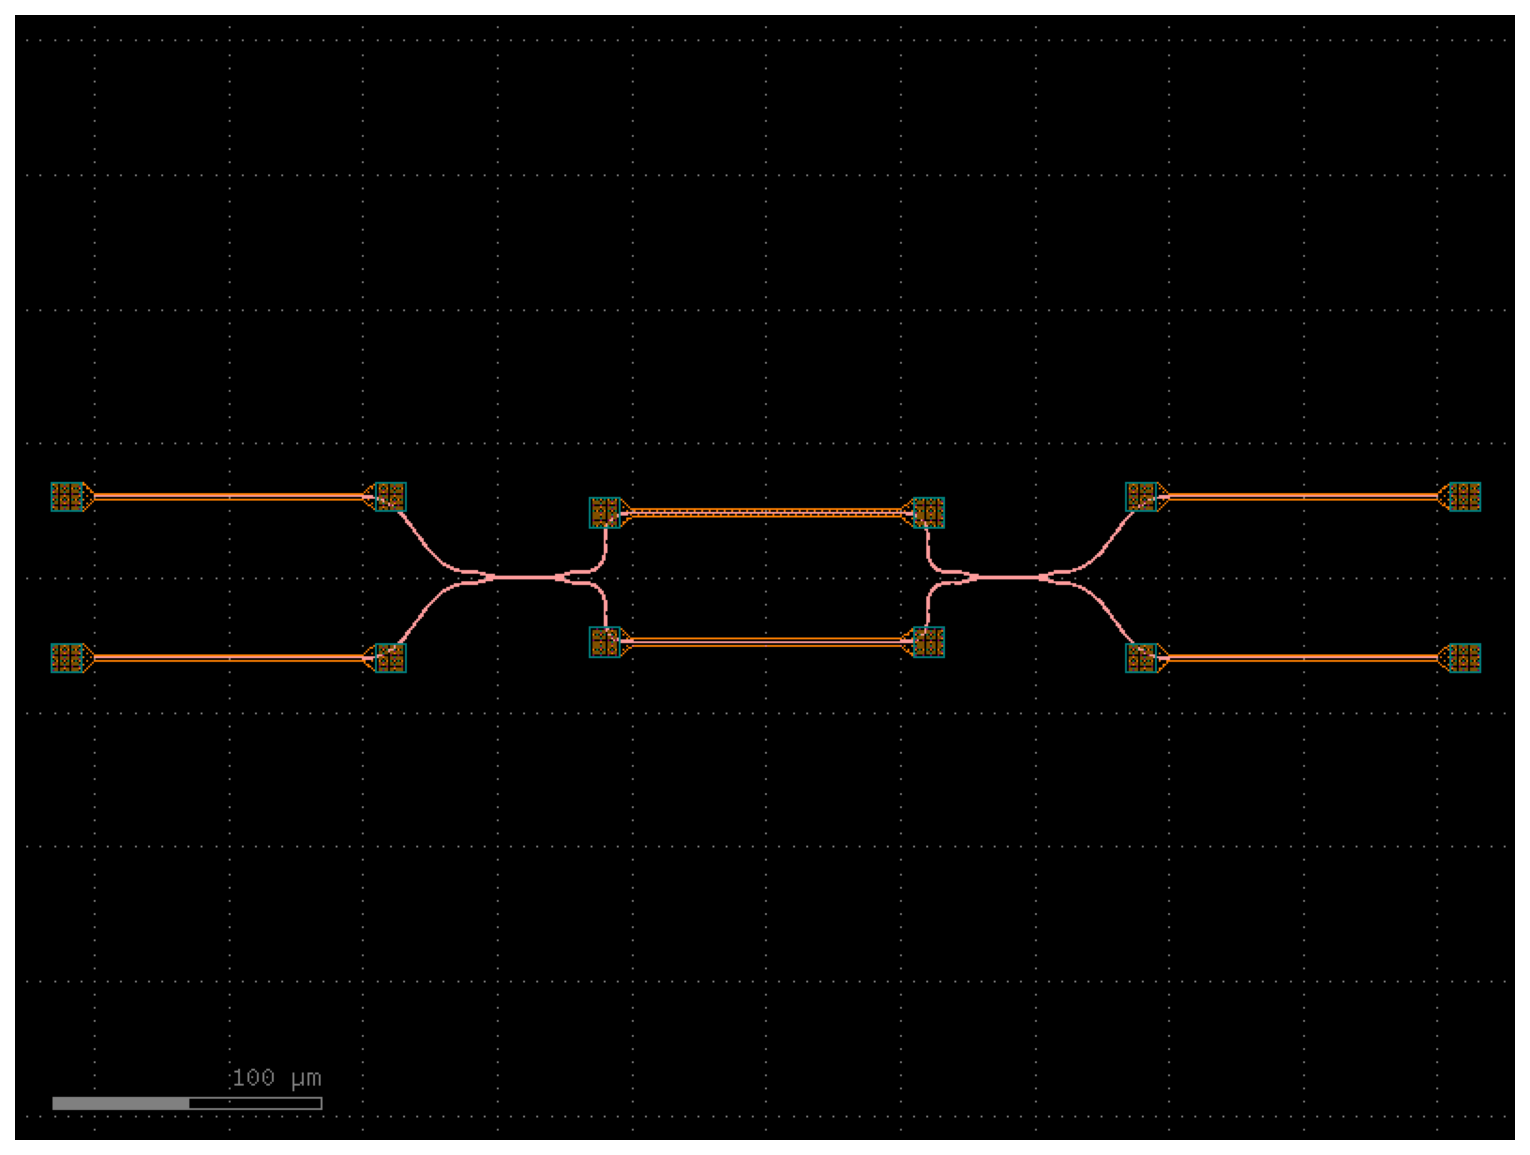
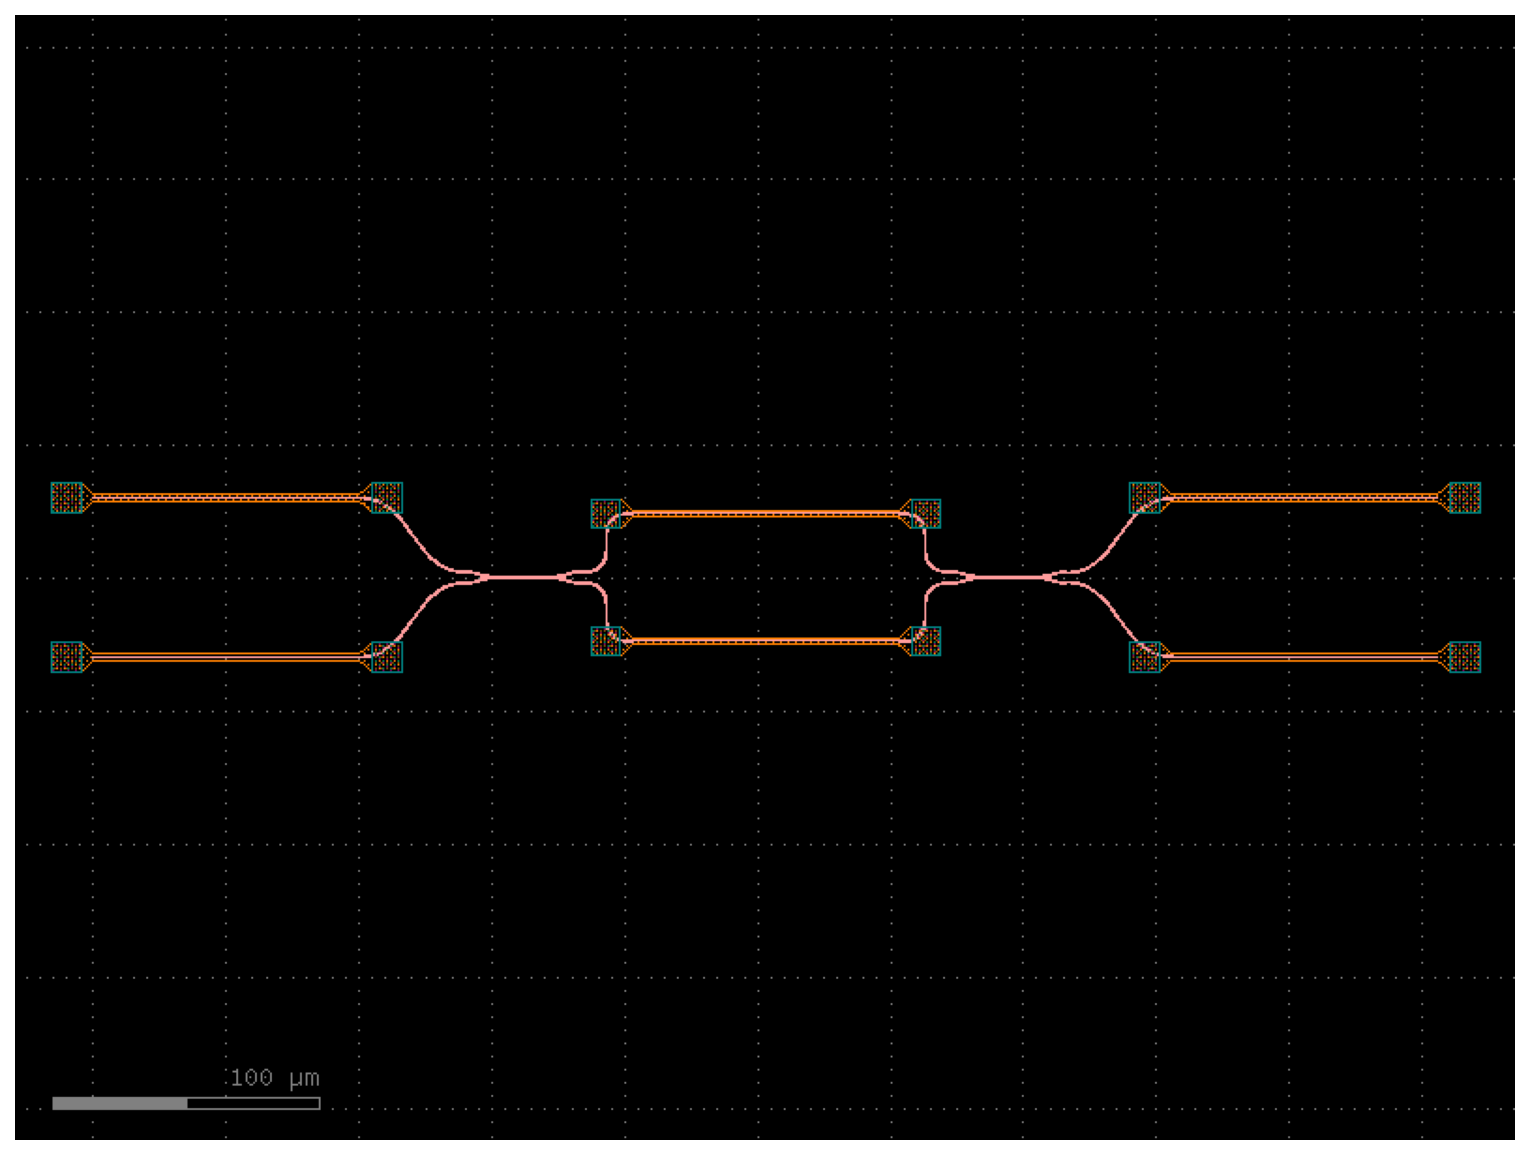
OPA-LAYOUT-001: Set the coupler length to the simulated 23.0 um
OPA-COUPLER-002 showed that the 20 um couplers split only about 41:59
for a 500 x 220 nm silicon wire with a 236 nm gap, and that 50:50 needs
a 23.0 um straight section once the S-bend coupling is included.

Set COUPLER_LENGTH to 23.0 um and add a coupler_length_from_simulation
check that reads the recommended length from
results/opa-coupler-002/result.json and fails if the layout differs by
0.1 um or more (verified: it fails for 20 um). Regenerate the GDS,
PNG and report: 10 checks pass, footprint 538 x 71 um. Remove the known
issue from the README, describe the remaining wavelength and
fabrication limits, and add the 32 px/um coupler convergence run to
roadmap phase 6.

Claude-Session: https://claude.ai/code/session_01MScSU9dWGvWquweh8EJBN7

diff --git a/layout/mzi_2x2_layout_v001.py b/layout/mzi_2x2_layout_v001.py
@@ -20,7 +20,7 @@ The script writes the GDS file, a PNG preview and a JSON report, and checks:
   6. the GDS file is byte-for-byte reproducible.
 
 The generic PDK is gdsfactory's example technology, not a foundry process:
-layer numbers, the coupler gap and the heater are placeholders until a real
+layer numbers and the heater are placeholders until a real
 PDK (for example an open silicon-photonics PDK) is chosen.
 """
 import hashlib
@@ -34,7 +34,8 @@ import gdsfactory as gf
 OUT = Path("results/opa-layout-001")
 HEATER_LENGTH = 100.0      # um
 COUPLER_GAP = 0.236        # um, generic-PDK default
-COUPLER_LENGTH = 20.0      # um; the 50:50 length must come from simulation
+COUPLER_LENGTH = 23.0      # um; 50:50 for Si 500 x 220 nm at 1.55 um, from OPA-COUPLER-002
+COUPLER_002 = Path("results/opa-coupler-002/result.json")
 FANOUT = (40.0, 28.0)      # (dx, dy) of the S-bends that separate the heaters
 LENGTH_TOLERANCE = 1e-3    # um
 
@@ -185,6 +186,11 @@ def main():
     n_heaters = sum(name.startswith("straight_heater") for name in cells)
     check("building_blocks", n_couplers == 2 and n_heaters == 6,
           f"2 directional couplers and 6 heaters (found {n_couplers} and {n_heaters})")
+    recommended = json.loads(COUPLER_002.read_text())["layout"]["recommended_straight_length_um"]
+    check("coupler_length_from_simulation", abs(COUPLER_LENGTH - recommended) < 0.1,
+          f"coupler straight length {COUPLER_LENGTH} um matches the 50:50 length "
+          f"{recommended:.2f} um from OPA-COUPLER-002 (3D FDTD bend phase, MPB L_c) within 0.1 um")
+
     heater_cells = {name for name in cells if name.startswith("straight_heater")}
     check("identical_heaters", len(heater_cells) == 1,
           "all six heaters are the same cell, so powered and dummy heaters add the same loss")
@@ -258,8 +264,9 @@ def main():
         "failures": failures,
         "limitations": [
             "Generic example PDK: layers, design rules and heater geometry are not a foundry's",
-            "The coupler length is a placeholder; the 50:50 length for a real stack must "
-            "come from simulation (next step: Meep or a mode solver)",
+            "The 23.0 um coupler length is 50:50 for a 500 x 220 nm silicon wire in SiO2 at "
+            "1.55 um (OPA-COUPLER-002); it splits about 35:65 to 68:32 across 1.50-1.60 um "
+            "and +-10 nm fabrication errors move it to roughly 44-59 % (OPA-COUPLER-001)",
             "No foundry DRC deck has been run; checks are geometric sanity checks only",
             "No electrical routing to bond pads and no grating or edge couplers yet",
             "Heater phase per milliwatt and thermal crosstalk are not modelled",

diff --git a/README.md b/README.md
@@ -42,7 +42,7 @@ reproducible so that anyone can learn from it and build on it.
 | 3 | Real material platforms (e.g. Si/SiO₂ 220 nm, SiN, LNOI) and spectral response | **Started** (COUPLER-001, Si 220 nm) |
 | 4 | GDSFactory components in an open PDK: waveguide, bend, directional coupler, MMI, phase shifter, single 2×2 MZI | **Started** (LAYOUT-001, generic PDK) |
 | 5 | MZI mesh (2×2 → 4×4) as an optical matrix multiplier, with a link to the MZI learning simulation | **Started** (MZI-001–003) |
-| 6 | Design-rule-checked GDS ready for an MPW run | Planned |
+| 6 | Design-rule-checked GDS ready for an MPW run (includes a 32 px/µm FDTD convergence run of the coupler, see OPA-COUPLER-002) | Planned |
 | 7 | Measurement plan and published measurement data | Planned |
 
 Fabricating photonic chips requires a foundry. The realistic open path is to
@@ -324,8 +324,10 @@ Python 3.13 environment ([`layout/requirements-lock.txt`](layout/requirements-lo
 
 The same circuit as OPA-MZI-001, drawn as a GDS file
 ([`programmable_mzi_2x2.gds`](results/opa-layout-001/programmable_mzi_2x2.gds),
-532 × 71 µm). From left to right: phase shifter φ, then two 2×2 directional
-couplers with heater θ between them, then output phase shifters a and b. Every
+538 × 71 µm). From left to right: phase shifter φ, then two 2×2 directional
+couplers with heater θ between them, then output phase shifters a and b. The
+couplers have a 23.0 µm straight section, which gives 50:50 for a 500 × 220 nm
+silicon wire at 1.55 µm according to OPA-COUPLER-002. Every
 powered heater has an identical unpowered heater on the other waveguide, so both
 paths see the same heater loss, which was the lesson from OPA-MZI-002.
 
@@ -333,6 +335,7 @@ paths see the same heater loss, which was the lesson from OPA-MZI-002.
 |-------|--------|
 | 4 optical ports, inputs west and outputs east, 0.5 µm wide; top port = waveguide 0 of the circuit model | pass |
 | 2 directional couplers and 6 identical heaters | pass |
+| Coupler length matches the 50:50 length from OPA-COUPLER-002 (within 0.1 µm) | pass, 23.0 µm (fails for the old 20 µm) |
 | Internal arms equal length (170.548 µm each) | pass, difference 0 |
 | Input and output paths equal length on both waveguides | pass |
 | Fan-out S-bends do not cross; heater footprints do not overlap | pass |
@@ -342,14 +345,15 @@ The crossing check caught a real bug during development: the input S-bends
 were mirrored, so the top input ended up at the bottom and the two input
 waveguides crossed.
 
-**Known issue:** for a silicon 500 × 220 nm wire with a 236 nm gap, the 20 µm
-couplers split about 41:59 including the S-bends (OPA-COUPLER-002). The
-straight section should be 23.0 µm for 50:50.
+The first version used 20 µm couplers, which split only about 41:59. The
+length now comes from simulation, and the layout check fails if it drifts from
+the OPA-COUPLER-002 result.
 
 **Limits:** this uses gdsfactory's *generic* example PDK, not a foundry process.
-Layers, design rules and heaters are placeholders, and the coupler length is
-not yet tuned to 50:50. No foundry DRC has been run, and there are no bond pads
-or fiber couplers yet.
+Layers, design rules and heaters are placeholders. The 50:50 split only holds
+near 1.55 µm (35:65 to 68:32 across 1.50–1.60 µm), and ±10 nm fabrication
+errors move it to about 44–59 %, so a real chip still needs calibration. No
+foundry DRC has been run, and there are no bond pads or fiber couplers yet.
 
 ## Running locally
 

diff --git a/results/README.md b/results/README.md
@@ -36,7 +36,7 @@ Circuit (MZI) experiments use numpy from the same environment.
 | MZI-003 | [result.json](opa-mzi-003/result.json) | Clements mesh exact for N = 2–16 (N(N−1)/2 MZIs, N columns); error grows about √N (1 % couplers: 0.013 → 0.035 from N = 2 to 8); a 4×4 classifier keeps 86.8 % accuracy on imperfect chips; power-only readout drops it to 63 % | Coherent detection and ideal attenuators assumed; toy task |
 | COUPLER-001 | [result.json](opa-coupler-001/result.json) | Si 500 × 220 nm coupler: L_c = 37.9 µm at 200 nm gap (50:50 at 19.0 µm), converged to 0.3 %; split ranges from 35 % to 68 % over 1.50–1.60 µm; ±10 nm fabrication error gives 44–59 %; the LAYOUT-001 coupler (236 nm gap, 20 µm) splits about 32:68 | Two-mode theory, straight section only |
 | COUPLER-002 | [result.json](opa-coupler-002/result.json) | 3D FDTD of the full layout coupler: L_c 52.2 µm at 24 px/µm vs 52.0 µm MPB (0.4 %); S-bends add 0.091 rad (≈ 3.0 µm); 50:50 needs a 23.0 µm straight section; the current 20 µm gives about 41:59 | 16–24 px/µm only; Richardson check failed (non-blocking) |
-| LAYOUT-001 | [result.json](opa-layout-001/result.json), [GDS](opa-layout-001/programmable_mzi_2x2.gds), [PNG](opa-layout-001/programmable_mzi_2x2.png) | Programmable 2×2 MZI with balanced dummy heaters, 532 × 71 µm; 9 geometric checks pass; GDS reproducible byte for byte | gdsfactory generic PDK, not a foundry process; coupler not tuned to 50:50 |
+| LAYOUT-001 | [result.json](opa-layout-001/result.json), [GDS](opa-layout-001/programmable_mzi_2x2.gds), [PNG](opa-layout-001/programmable_mzi_2x2.png) | Programmable 2×2 MZI with balanced dummy heaters and 23.0 µm couplers (50:50 per COUPLER-002), 538 × 71 µm; 10 checks pass; GDS reproducible byte for byte | gdsfactory generic PDK, not a foundry process; 50:50 only near 1.55 µm |
 
 The 3D results from 007–010 and from 011 describe different polarizations
 (TM-like versus TE-like) and are normalized differently, so they should not be
